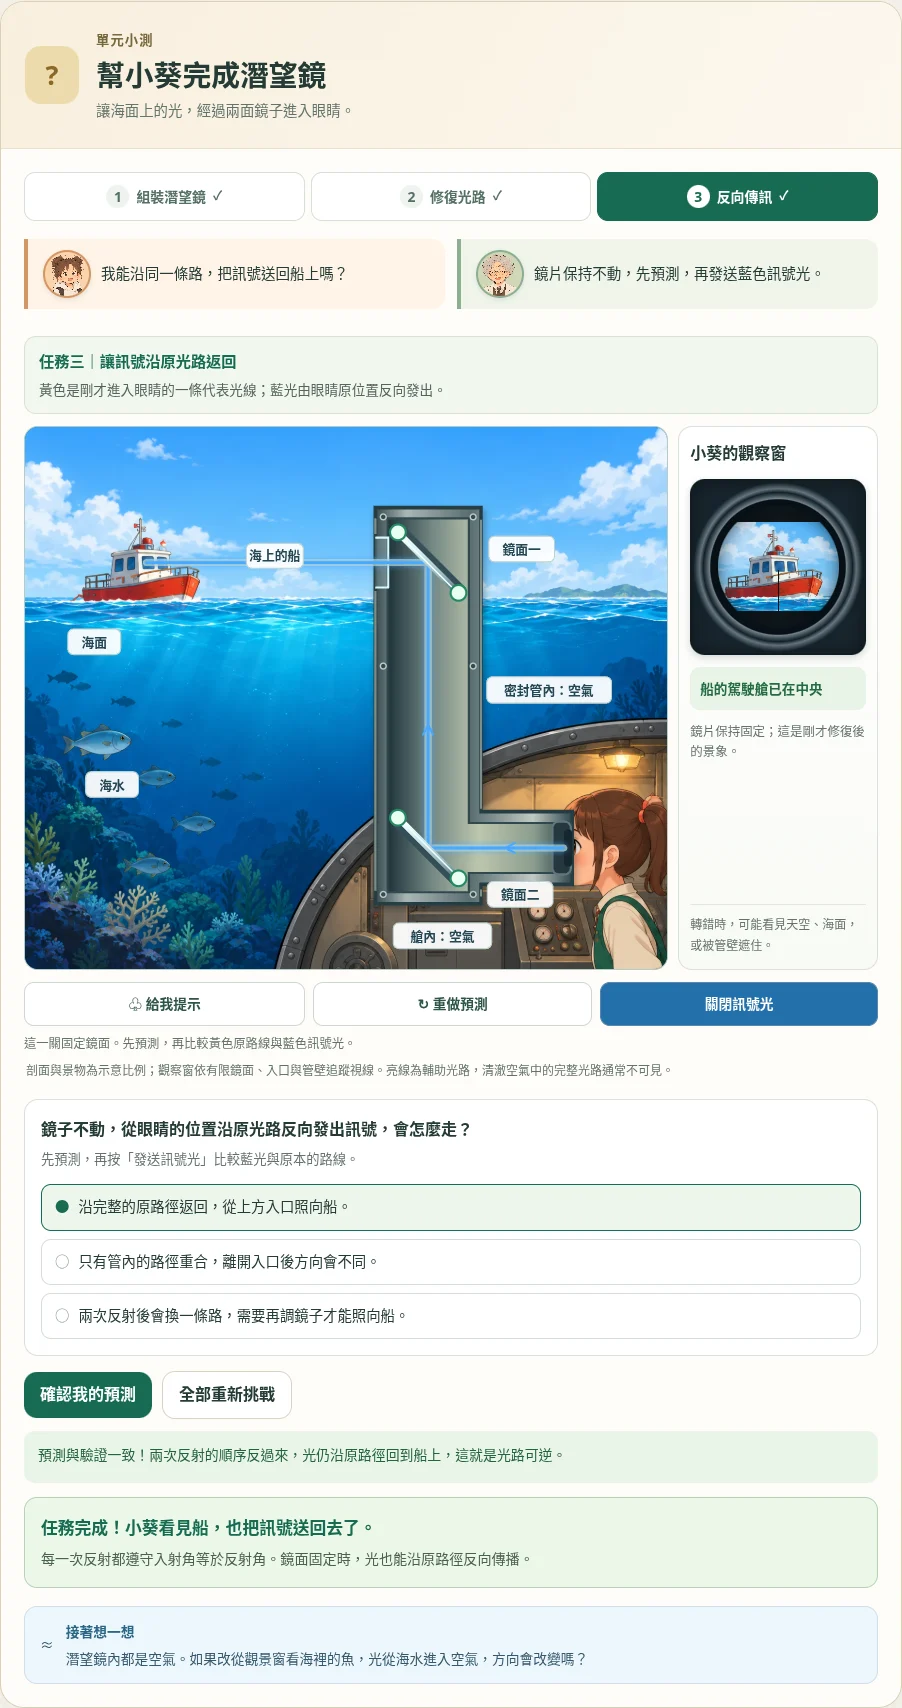
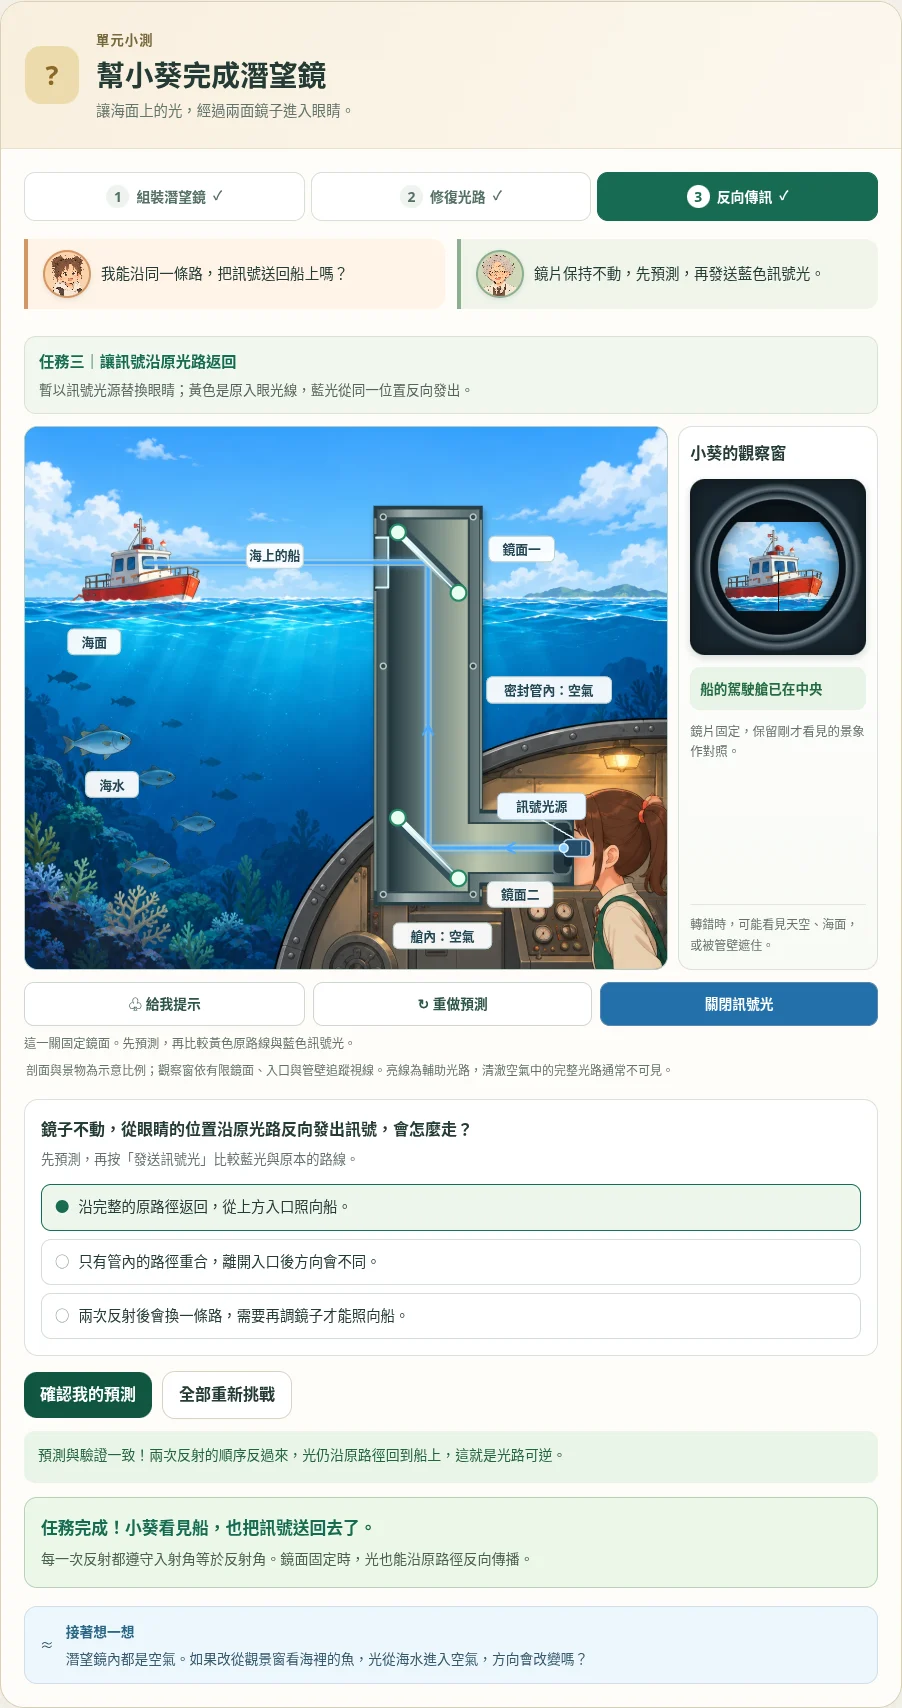
Clarify the periscope return signal source and refresh final checks

diff --git a/units/1/parts/1.2/index.html b/units/1/parts/1.2/index.html
@@ -427,6 +427,7 @@
                     <g id="periscope-mirror-0" class="mirror-drag" role="slider" tabindex="0" aria-label="鏡面一，拖曳端點旋轉，或使用方向鍵" aria-valuemin="30" aria-valuemax="65" aria-valuenow="38" aria-orientation="horizontal"><circle class="scope-mirror-focus" cx="565" cy="190" r="79"/><line class="scope-mirror-hit"/><line class="mirror-back" stroke="#354f58" stroke-width="15" stroke-linecap="round"/><line class="mirror-glass" stroke="url(#scope-mirror)" stroke-width="9" stroke-linecap="round"/><line class="mirror-highlight" stroke="#f0ffff" stroke-width="2"/><circle class="scope-mirror-handle" r="11"/><circle class="scope-mirror-handle" r="11"/></g>
                     <g id="periscope-mirror-1" class="mirror-drag" role="slider" tabindex="0" aria-label="鏡面二，拖曳端點旋轉，或使用方向鍵" aria-valuemin="30" aria-valuemax="65" aria-valuenow="51" aria-orientation="horizontal"><circle class="scope-mirror-focus" cx="565" cy="590" r="79"/><line class="scope-mirror-hit"/><line class="mirror-back" stroke="#354f58" stroke-width="15" stroke-linecap="round"/><line class="mirror-glass" stroke="url(#scope-mirror)" stroke-width="9" stroke-linecap="round"/><line class="mirror-highlight" stroke="#f0ffff" stroke-width="2"/><circle class="scope-mirror-handle" r="11"/><circle class="scope-mirror-handle" r="11"/></g>
                     <g class="scene-label"><rect x="310" y="163" width="80" height="35" rx="8"/><text x="350" y="187" text-anchor="middle">海上的船</text><rect x="650" y="153" width="92" height="36" rx="8"/><text x="696" y="178" text-anchor="middle">鏡面一</text><rect x="648" y="637" width="92" height="36" rx="8"/><text x="694" y="662" text-anchor="middle">鏡面二</text><rect x="647" y="350" width="175" height="37" rx="8"/><text x="734" y="375" text-anchor="middle">密封管內：空氣</text><rect x="60" y="283" width="74" height="36" rx="8"/><text x="97" y="308" text-anchor="middle">海面</text><rect x="85" y="483" width="74" height="36" rx="8"/><text x="122" y="508" text-anchor="middle">海水</text><rect x="516" y="695" width="138" height="36" rx="8"/><text x="585" y="720" text-anchor="middle">艙內：空氣</text></g>
+                    <g id="periscope-signal-source" hidden pointer-events="none"><path d="M724 550L770 577" fill="none" stroke="#e8f5ff" stroke-width="2"/><rect x="662" y="513" width="124" height="37" rx="8" fill="#edf7ff" stroke="#9fc9e8"/><text x="724" y="538" text-anchor="middle">訊號光源</text><rect x="755" y="578" width="38" height="24" rx="6" fill="#254b69" stroke="#b3d8f2" stroke-width="2"/><path d="M780 581V599M786 581V599" stroke="#739dbb" stroke-width="2"/><circle cx="755" cy="590" r="6" fill="#89cfff" stroke="#e6f7ff" stroke-width="2"/></g>
                     <g id="periscope-block-marker" hidden><circle r="11" fill="#fff4dc" stroke="#a5682c" stroke-width="3"/><path d="M-5-5L5 5M5-5L-5 5" stroke="#a5682c" stroke-width="3"/></g>
                   </svg>
                 </div>
@@ -473,6 +474,6 @@
   <script type="module" src="assets/reflection-3d.js?v=45"></script>
   <script type="module" src="assets/laser-reflection.js?v=36"></script>
   <script type="module" src="assets/reversible-light.js?v=3"></script>
-  <script type="module" src="assets/periscope.js?v=1"></script>
+  <script type="module" src="assets/periscope.js?v=2"></script>
 </body>
 </html>

diff --git a/units/1/parts/1.2/assets/periscope.js b/units/1/parts/1.2/assets/periscope.js
@@ -55,6 +55,7 @@ if(root) {
     const ray=forwardRay(), marker=$('#periscope-block-marker');
     marker.hidden=true;marker.setAttribute('hidden','');
     $('#periscope-normal').replaceChildren();
+    $('#periscope-signal-source').toggleAttribute('hidden',state.stage!==2);
     if(state.stage===2) {
       const saved=returnSignal(state.saved);
       drawPath($('#periscope-recorded'),signalPoints(saved).reverse(),'#fff0b1',false,true);
@@ -119,7 +120,7 @@ if(root) {
     root.dataset.phase=String(state.stage);root.dataset.angles=state.angles.join(',');root.dataset.view=info.kind;root.dataset.target=String(info.target);root.dataset.completed=state.done.join(',');root.dataset.path=String(state.path);root.dataset.signal=String(state.signal);
     $('#periscope-view-state').textContent=messages[info.kind];$('#periscope-view-state').dataset.kind=info.kind;
     $('#periscope-view').setAttribute('aria-label',messages[info.kind]+'。'+(info.blocked?'部分視線受到遮擋。':''));
-    $('#periscope-view-copy').textContent=state.stage===2?'鏡片保持固定；這是剛才修復後的景象。':info.kind==='blocked'?'鏡子未把外界的光送進眼睛。看看光在哪裡被擋住。':info.blocked/(info.clear+info.blocked)>.3?'邊緣的暗區是管壁或有限鏡片造成的遮擋。':'試著微轉鏡片，觀察船、天空與海面如何移動。';
+    $('#periscope-view-copy').textContent=state.stage===2?'鏡片固定，保留剛才看見的景象作對照。':info.kind==='blocked'?'鏡子未把外界的光送進眼睛。看看光在哪裡被擋住。':info.blocked/(info.clear+info.blocked)>.3?'邊緣的暗區是管壁或有限鏡片造成的遮擋。':'試著微轉鏡片，觀察船、天空與海面如何移動。';
     $$('.periscope-steps button').forEach((b,i)=>{b.disabled=i>0&&!state.done[i-1];b.setAttribute('aria-selected',String(i===state.stage));b.tabIndex=i===state.stage?0:-1;b.dataset.complete=String(state.done[i]);});
     $('#periscope-panel').setAttribute('aria-labelledby',`periscope-tab-${state.stage}`);
     for(let i=0;i<3;i++)$(`#periscope-question-${i}`).hidden=i!==state.stage;
@@ -204,7 +205,7 @@ if(root) {
     const content=[
       ['我在潛水艇裡，怎麼看見海上的船？','先轉動鏡片，再從觀察窗找找船在哪裡。','任務一｜把船的駕駛艙調到觀察窗中央','拖曳鏡片端點旋轉。先試著觀察，需要時再顯示輔助光路。'],
       ['剛才明明看見船，怎麼現在偏向天空了？','先判斷哪片鏡子被轉動，再把景象修回來。','任務二｜找出故障，讓船重新回到中央','先選擇你的判斷，再拖動鏡片修復；需要時可顯示光路。'],
-      ['我能沿同一條路，把訊號送回船上嗎？','鏡片保持不動，先預測，再發送藍色訊號光。','任務三｜讓訊號沿原光路返回','黃色是剛才進入眼睛的一條代表光線；藍光由眼睛原位置反向發出。']
+      ['我能沿同一條路，把訊號送回船上嗎？','鏡片保持不動，先預測，再發送藍色訊號光。','任務三｜讓訊號沿原光路返回','暫以訊號光源替換眼睛；黃色是原入眼光線，藍光從同一位置反向發出。']
     ][stage];
     ['#periscope-student','#periscope-grandpa','#periscope-task-title','#periscope-task-copy'].forEach((id,i)=>$(id).textContent=content[i]);
     if(stage===0) {

diff --git a/docs/reviews/unit-1.2-periscope/review.md b/docs/reviews/unit-1.2-periscope/review.md
@@ -15,7 +15,7 @@
 2. 封閉管道是垂直管與水平觀察口的聯集，只有上方左側入口及眼睛端開口。前後壁與鏡片寬度皆有限；從單一眼睛位置以三維離軸視線取樣整個視野，有限入口與鏡片造成暗邊。
 3. 畫面每列先計算剖面光路，再依 z 分量計算前後壁／鏡片遮擋及出管位置。鏡面法線 z=0，使此加速與完整逐像素追跡等價；測試另用完整三維追跡核對觀察窗實際像素。
 4. 圖像來自同一遠方插畫場景，出管方向連續改變取樣位置，不依成功角度切換圖片。對準時看到船；上方鏡面偏轉可看天空或海面；偏得太多或下方光路未接通可局部／完全被擋。海水景象只代表入口外的海面，不會看穿管壁看見水下魚。
-5. 原船反射入眼用黃色輔助光；反向任務將訊號光源置於原眼睛位置，固定鏡片，藍光另行計算反射。保留原入眼代表光線，檢查兩者幾何反向重合。眼睛不是主動發光物。
+5. 原船反射入眼用黃色輔助光；反向任務將訊號光源置於原眼睛位置，固定鏡片，藍光另行計算反射。保留原入眼代表光線，檢查兩者幾何反向重合。眼睛不是主動發光物。反向關卡在圖中顯示「訊號光源」器材，明示暫時替換原眼睛位置；右側保留先前觀察景象作對照。
 6. 上方入口在水面之上，管內密封且充滿空氣，下方與觀察者都在乾燥艙內。下一課提問海水進空氣，但本題光路不經海水。
 
 ### 模型限制
@@ -43,4 +43,4 @@
 
 人工檢視 `desktop.webp`、`mobile.webp` 與 `completed-desktop.webp`，對照核可圖確認標頭、三階段、角色對話、剖面與觀察窗、順序題及操作按鈕層級；手機觀察窗改在剖面下方。另檢視四種實際觀察窗 `view-boat.webp`、`view-sky.webp`、`view-sea.webp`、`view-blocked.webp`，確認不是只有狀態文字改變。手機完整順序列不換到下一行，微調鍵可實際操作。
 
-公開部署與公開網址操作結果於部署後確認。
+公開交付檢查另以 GitHub Pages HTTPS 頁面實際完成拖曳、四種景象、三階段作答、反向訊號、重設及手機觸控；不以本機測試代替部署檢查。入口為 [單元小測](https://billlaitrade.github.io/k12-learning-demos/units/1/parts/1.2/#unit-quiz)。
